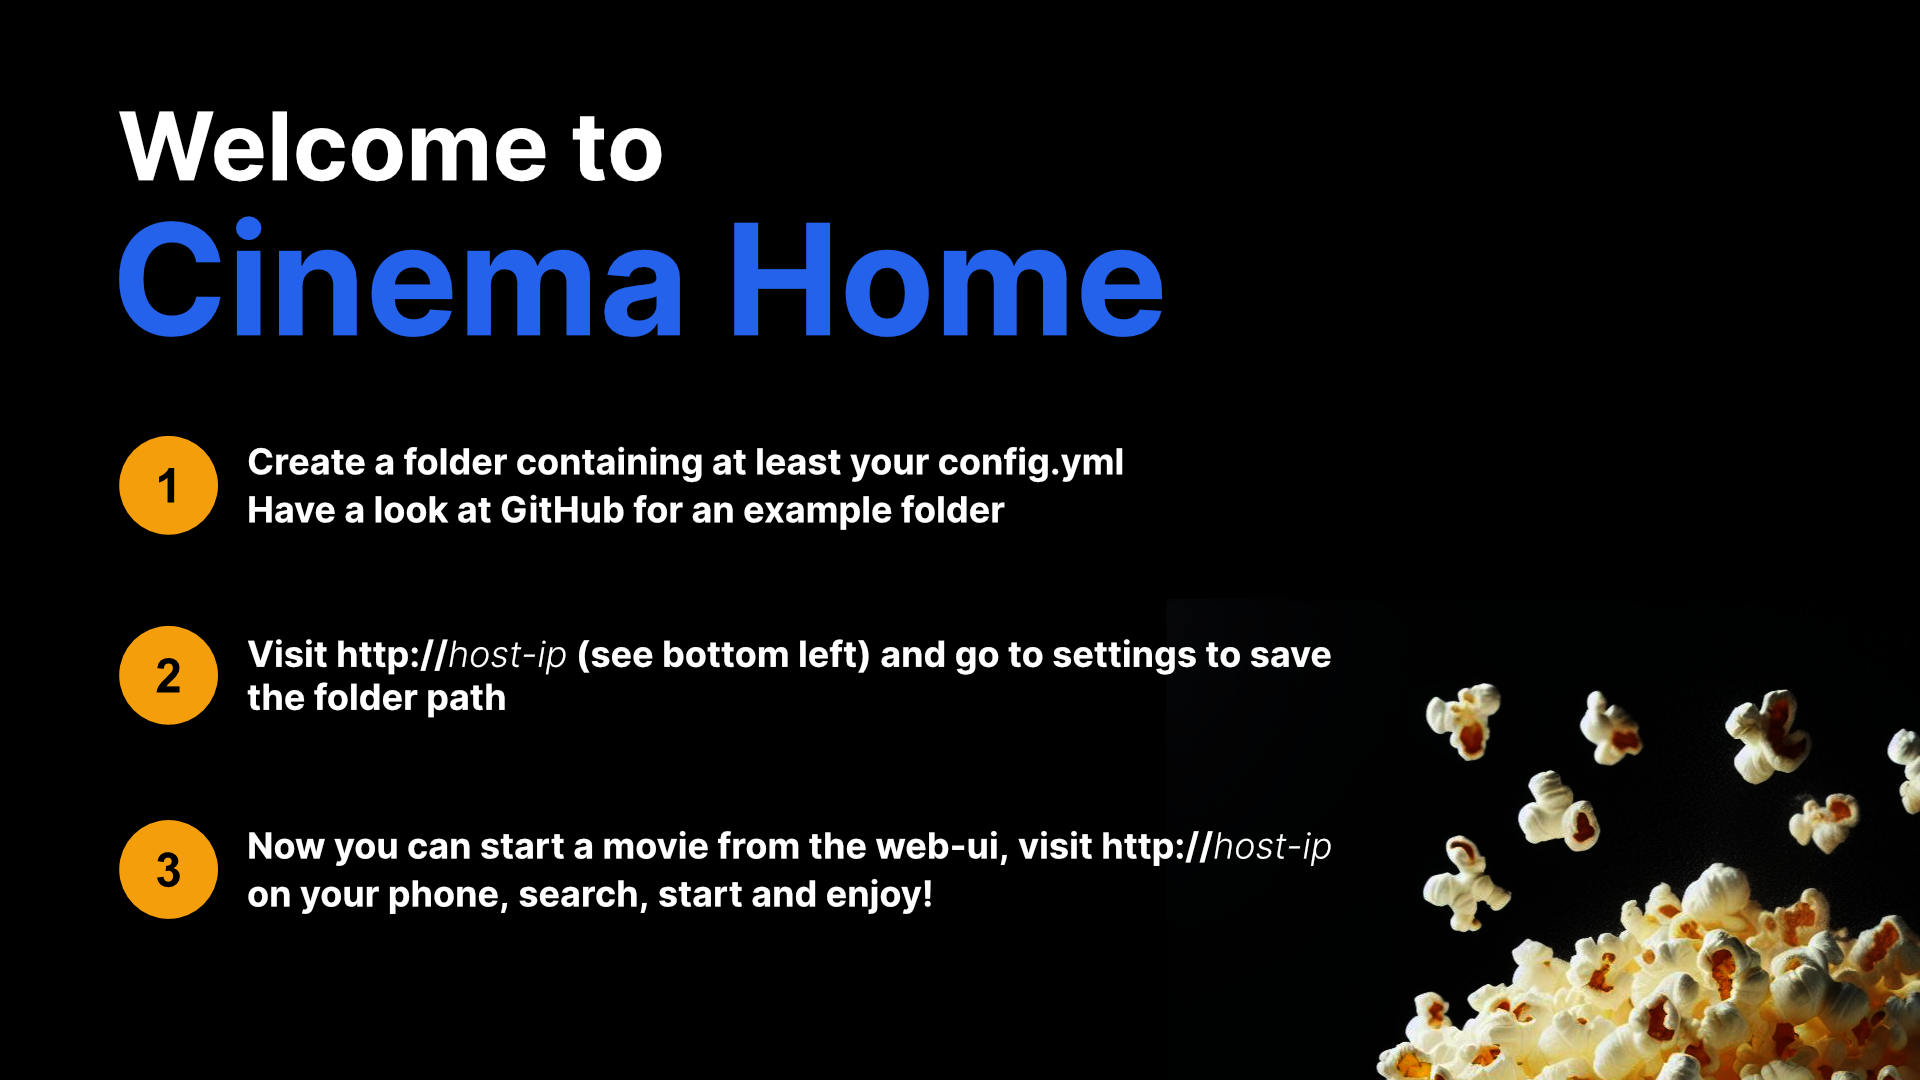
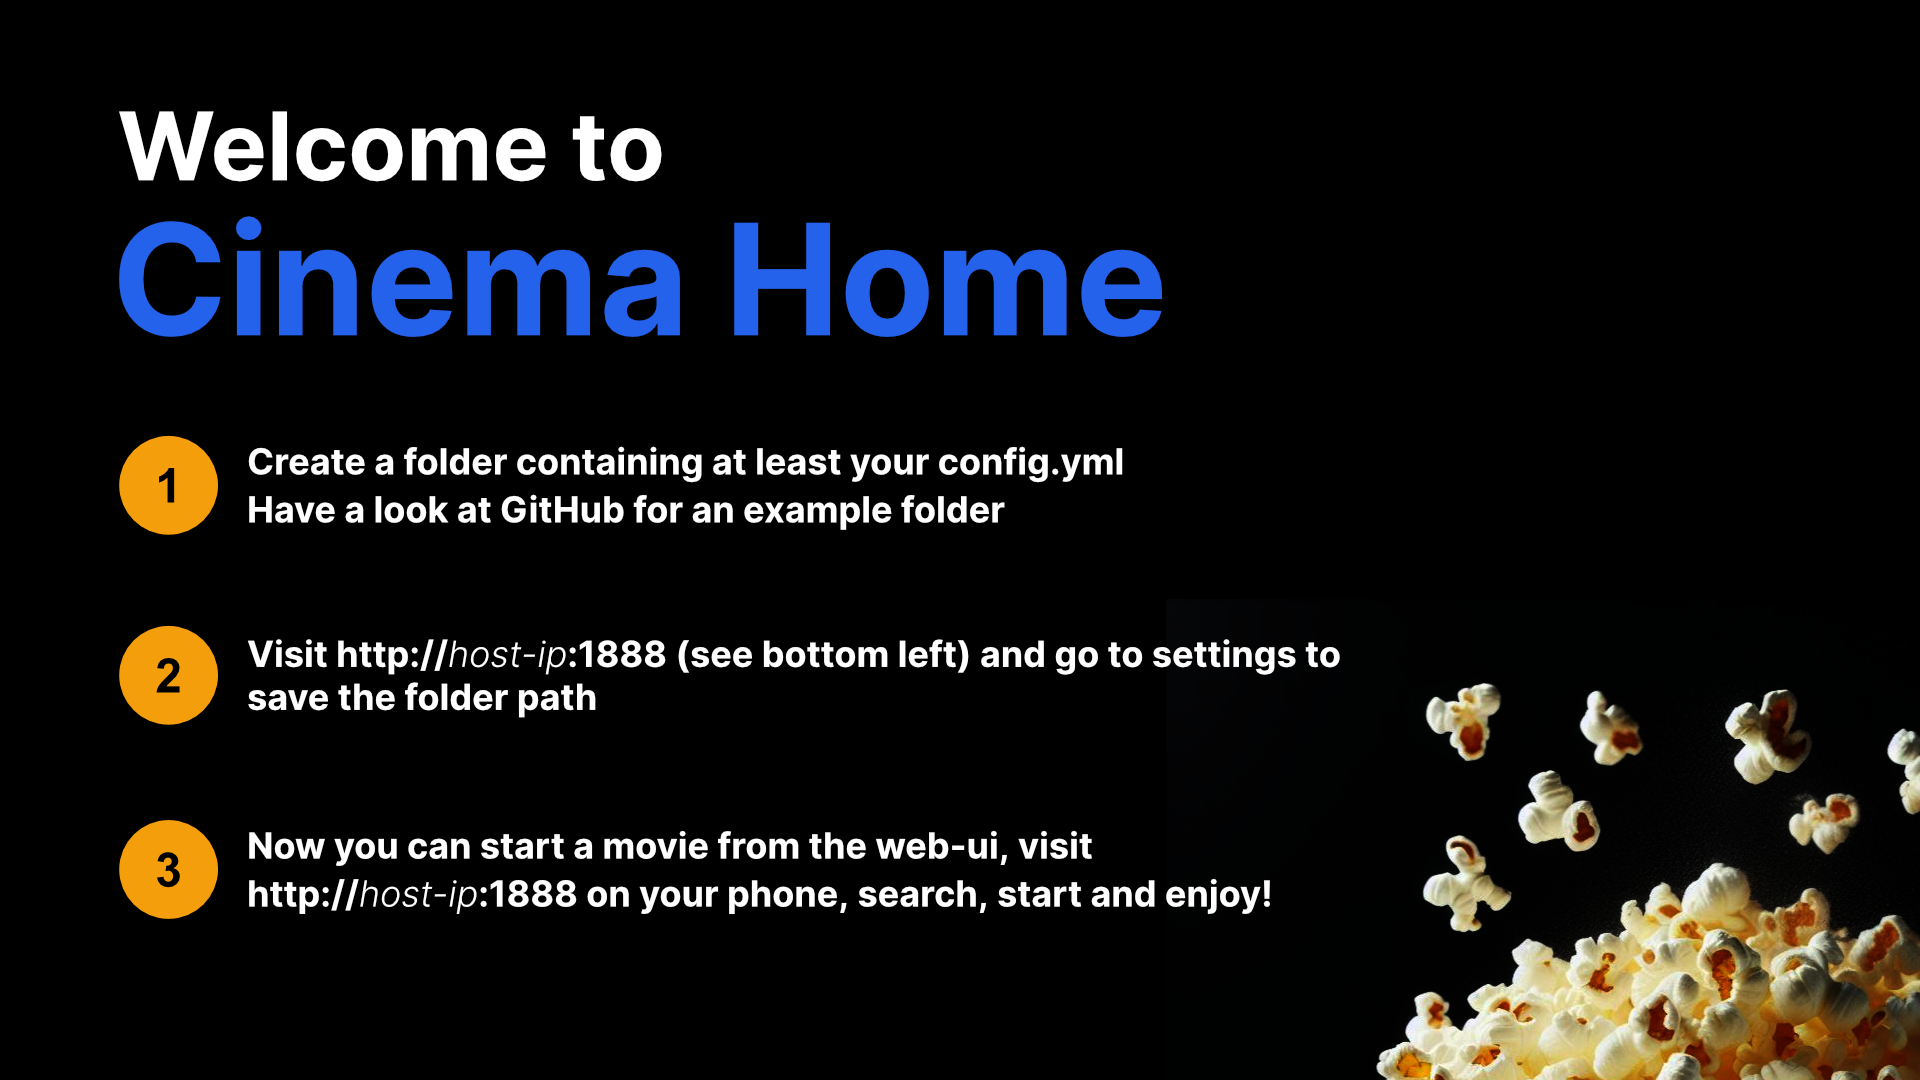
Using port 1888

Changed region(s): [[0.125, 0.5806, 0.6875, 0.6722], [0.125, 0.7639, 0.6875, 0.8556]]

diff --git a/cinema-home/renderer.js b/cinema-home/renderer.js
@@ -38,8 +38,12 @@ waitForDir().then((newDir) => {
         console.log(error);
         document.getElementById("main-image").style.visibility  = 'hidden';
         document.getElementById("break-image").style.visibility = 'hidden';
-        require('dns').lookup(require('os').hostname(), function (err, add, fam) {
-            document.getElementById("ip").innerText = 'Visit http://' + add.toString();
+        require('dns').lookup(require('os').hostname(), { family: 4 }, function (err, add, fam) {
+            if (err) {
+                console.error(err);
+                return;
+            }
+            document.getElementById("ip").innerText = 'Visit http://' + add.toString() + ':1888';
         })
        
         welcomeImage.style.visibility = 'visible';

diff --git a/example/readme.md b/example/readme.md
@@ -30,7 +30,7 @@ module.exports = {
 ```
 
 The script needs to be placed in the same folder as the `config.yml`.
-For the tmdb_fetch_trailers.js script to work you will need to run `npm install axios ytdl-core when using this script`
+For the tmdb_fetch_trailers.js script to work you will maybe need to run `npm install axios ytdl-core` when using this script
 
 ## Starting Cinema Home
 

diff --git a/readme.md b/readme.md
@@ -18,10 +18,6 @@ With Cinema Home you can create a seamless cinema experience at home.
 5. Enjoy!
 
 <img src="web-ui.jpg" alt="The Cinema Home web-ui" width="340"/>
-<br/>
-<br/>
 
 > You can exit Cinema Home by holding `ESC` for 5 seconds\
 > Open DevTools by pressing `i`
-
-> v1.0.0
